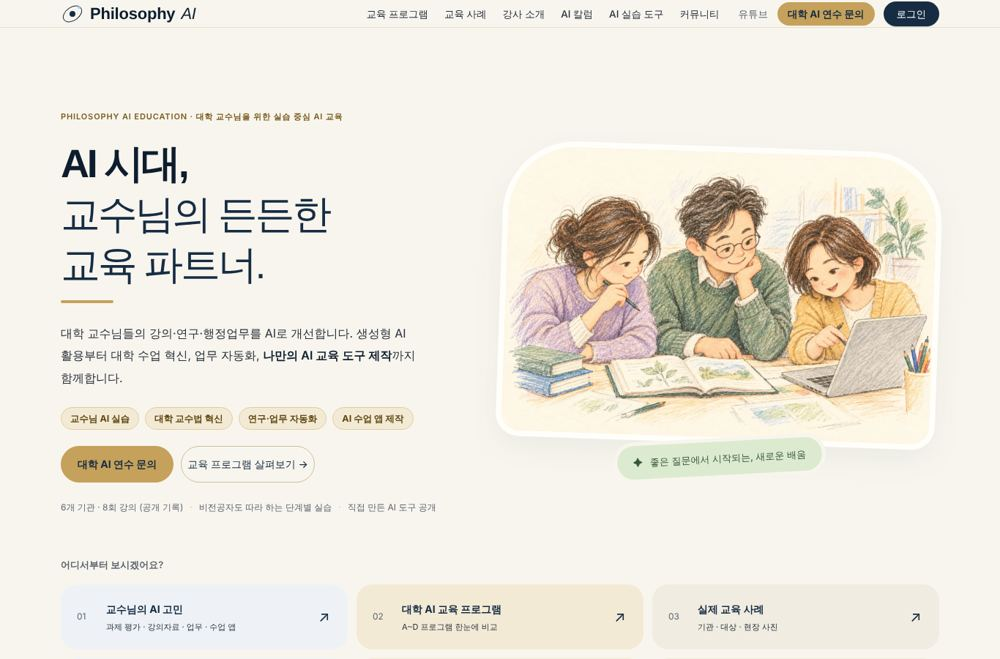
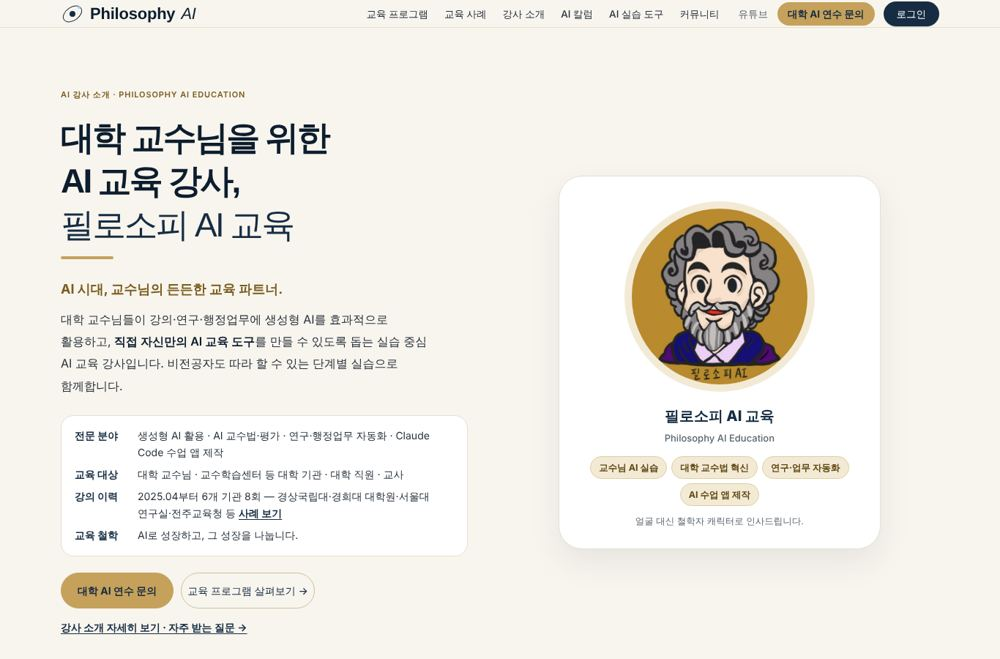
Make the instructor introduction the first screen of the home page
- Hero now introduces the instructor: philosopher character profile card, "대학 교수님을 위한 AI 교육 강사,
  필로소피 AI 교육", the slogan, and a fact list (specialty, audience, recorded teaching history, philosophy)
  with the inquiry/program CTAs and a link to the full instructor page
- The previous hero illustration moves to the philosophy section
- E2E checks the instructor-first hero; screenshots and report updated

Claude-Session: https://claude.ai/code/session_019rubHxhQeUR5oW9HdhLDiC

diff --git a/index.html b/index.html
@@ -519,31 +519,32 @@ footer { background: var(--parchment-deep); border-top: 1px solid var(--parchmen
         <div class="container">
             <div class="hero-layout">
                 <div class="hero-content">
-                    <span class="hero-badge">PHILOSOPHY AI EDUCATION · 대학 교수님을 위한 실습 중심 AI 교육</span>
-                    <h1>AI 시대,<br><em>교수님의 든든한<br> 교육 파트너.</em></h1>
-                    <p class="lead">대학 교수님들의 강의·연구·행정업무를 AI로 개선합니다.
-                        생성형 AI 활용부터 대학 수업 혁신, 업무 자동화, <strong>나만의 AI 교육 도구 제작</strong>까지 함께합니다.</p>
-                    <ul class="hero-keywords" aria-label="핵심 분야">
-                        <li>교수님 AI 실습</li><li>대학 교수법 혁신</li><li>연구·업무 자동화</li><li>AI 수업 앱 제작</li>
-                    </ul>
+                    <span class="hero-badge">AI 강사 소개 · PHILOSOPHY AI EDUCATION</span>
+                    <h1>대학 교수님을 위한<br>AI 교육 강사, <em>필로소피 AI 교육</em></h1>
+                    <p class="hero-slogan">AI 시대, 교수님의 든든한 교육 파트너.</p>
+                    <p class="lead">대학 교수님들이 강의·연구·행정업무에 생성형 AI를 효과적으로 활용하고,
+                        <strong>직접 자신만의 AI 교육 도구</strong>를 만들 수 있도록 돕는 실습 중심 AI 교육 강사입니다.
+                        비전공자도 따라 할 수 있는 단계별 실습으로 함께합니다.</p>
+                    <dl class="hero-profile-facts">
+                        <div><dt>전문 분야</dt><dd>생성형 AI 활용 · AI 교수법·평가 · 연구·행정업무 자동화 · Claude Code 수업 앱 제작</dd></div>
+                        <div><dt>교육 대상</dt><dd>대학 교수님 · 교수학습센터 등 대학 기관 · 대학 직원 · 교사</dd></div>
+                        <div><dt>강의 이력</dt><dd>2025.04부터 6개 기관 8회 — 경상국립대·경희대 대학원·서울대 연구실·전주교육청 등 <a href="/case-studies">사례 보기</a></dd></div>
+                        <div><dt>교육 철학</dt><dd>AI로 성장하고, 그 성장을 나눕니다.</dd></div>
+                    </dl>
                     <div class="hero-buttons">
                         <a href="/education-inquiry" class="btn btn-cta" data-track="cta_inquiry_click" data-track-label="hero">대학 AI 연수 문의</a>
                         <a href="/programs" class="btn btn-ghost" data-track="cta_programs_click" data-track-label="hero">교육 프로그램 살펴보기 →</a>
                     </div>
-                    <div class="hero-meta">
-                        <span>6개 기관 · 8회 강의 (공개 기록)</span>
-                        <span class="dot">·</span>
-                        <span>비전공자도 따라 하는 단계별 실습</span>
-                        <span class="dot">·</span>
-                        <a href="#tools">직접 만든 AI 도구 공개</a>
-                    </div>
+                    <p class="hero-more"><a href="/ai-instructor" data-track="cta_instructor_click" data-track-label="hero">강사 소개 자세히 보기 · 자주 받는 질문 →</a></p>
                 </div>
-                <figure class="hero-figure" id="heroFigure">
-                    <div class="learning-portrait">
-                        <img src="assets/illustrations/learning-together.webp" alt="책과 노트북을 함께 살펴보며 배우는 세 교육자의 색연필 일러스트 (AI로 만든 그림)" width="1536" height="1024" fetchpriority="high">
-                    </div>
-                    <figcaption class="learning-caption"><span aria-hidden="true">✦</span> 좋은 질문에서 시작되는, 새로운 배움</figcaption>
-                </figure>
+                <aside class="hero-figure hero-profile" id="heroFigure" aria-label="강사 프로필">
+                    <img src="assets/mascot.jpg" alt="보라색 재킷을 입은 필로소피 AI 교육의 철학자 캐릭터" width="320" height="320" fetchpriority="high">
+                    <p class="hero-profile-name">필로소피 AI 교육<span>Philosophy AI Education</span></p>
+                    <ul class="hero-profile-tags" aria-label="핵심 분야">
+                        <li>교수님 AI 실습</li><li>대학 교수법 혁신</li><li>연구·업무 자동화</li><li>AI 수업 앱 제작</li>
+                    </ul>
+                    <p class="hero-profile-note">얼굴 대신 철학자 캐릭터로 인사드립니다.</p>
+                </aside>
                 <nav class="explore-nav" aria-label="빠르게 둘러보기">
                     <p class="explore-title">어디서부터 보시겠어요?</p>
                     <a class="explore-link" href="#problems"><span class="explore-number">01</span><span class="explore-name">교수님의 AI 고민<small>과제 평가 · 강의자료 · 업무 · 수업 앱</small></span><span class="explore-arrow">↗</span></a>
@@ -786,9 +787,9 @@ footer { background: var(--parchment-deep); border-top: 1px solid var(--parchmen
     <!-- ===== 교육 철학 · 강사 소개 ===== -->
     <section id="philosophy" class="section-pad philosophy-band" aria-labelledby="philTitle">
         <div class="container philosophy-grid">
-            <figure class="philosophy-figure">
-                <img src="assets/mascot.jpg" alt="보라색 재킷을 입은 필로소피 AI 교육의 철학자 캐릭터" width="220" height="220" loading="lazy">
-                <figcaption>필로소피 AI 교육의 철학자 캐릭터</figcaption>
+            <figure class="philosophy-figure philosophy-illust">
+                <img src="assets/illustrations/learning-together.webp" alt="책과 노트북을 함께 살펴보며 배우는 세 교육자의 색연필 일러스트 (AI로 만든 그림)" width="1536" height="1024" loading="lazy">
+                <figcaption>좋은 질문에서 시작되는, 새로운 배움</figcaption>
             </figure>
             <div>
                 <span class="eyebrow">Our Philosophy</span>
@@ -797,7 +798,7 @@ footer { background: var(--parchment-deep); border-top: 1px solid var(--parchmen
                 <p>필로소피 AI 교육은 <b>“AI 시대, 교육자의 나침반”</b>이 되겠다는 마음으로 시작했습니다. 도구보다 사람을, 정답보다 질문을 먼저 생각하며,
                     기술적으로 가능한 것과 교육적으로 바람직한 것을 함께 고민합니다. 배운 것은 필로소피 AI 봉사단의 스터디와 리퍼 노트북 나눔으로 다시 이어갑니다.</p>
                 <div class="philosophy-links">
-                    <a class="btn btn-ghost" href="/ai-instructor">강사 소개 · 자주 받는 질문</a>
+                    <a class="btn btn-ghost" href="/ai-instructor">강사 소개 자세히 보기</a>
                     <a class="btn btn-ghost" href="/education-inquiry#volunteer">봉사단 활동 보기</a>
                 </div>
             </div>

diff --git a/assets/brand-2026.css b/assets/brand-2026.css
@@ -148,3 +148,34 @@ a.topic-card { color: inherit; text-decoration: none; display: block; transition
 a.topic-card:hover { transform: translateY(-3px); box-shadow: 0 12px 28px rgba(22, 44, 67, .08); }
 .contact-list small a { color: var(--navy); }
 button.hamburger { border: 0; background: transparent; }
+
+/* ===== 첫 화면: 강사 소개 (2026-11-09) ===== */
+.pastel-home .hero h1 { font-size: clamp(30px, 3.4vw, 46px); line-height: 1.3; }
+.pastel-home .hero h1 em::after { margin-top: 12px; }
+.hero-slogan { font-size: 18px; font-weight: 700; color: var(--gold); margin: 14px 0 10px; }
+.hero-profile-facts { display: grid; gap: 8px; margin: 0 0 22px; padding: 16px 18px; background: var(--surface); border: 1px solid var(--line); border-radius: 18px; max-width: 560px; }
+.hero-profile-facts > div { display: grid; grid-template-columns: 76px 1fr; gap: 10px; font-size: 14px; line-height: 1.6; }
+.hero-profile-facts dt { font-weight: 750; color: var(--navy); }
+.hero-profile-facts dd { margin: 0; color: var(--text); }
+.hero-profile-facts a { color: var(--navy); font-weight: 650; text-decoration: underline; text-underline-offset: 3px; }
+.hero-more { margin-top: -10px; font-size: 14px; }
+.hero-more a { color: var(--navy); font-weight: 700; text-decoration: underline; text-underline-offset: 3px; }
+.pastel-home .hero-profile { background: var(--surface); border: 1px solid var(--line); border-radius: 32px; padding: 34px 28px 26px; text-align: center; box-shadow: 0 18px 44px rgba(22, 44, 67, .08); max-width: 440px; justify-self: center; align-self: center; }
+.hero-profile img { width: min(260px, 70%); height: auto; aspect-ratio: 1; object-fit: cover; border-radius: 50%; border: 10px solid #f3ead6; margin: 0 auto 16px; display: block; }
+.hero-profile-name { font-size: 20px; font-weight: 800; color: var(--navy); margin: 0; }
+.hero-profile-name span { display: block; font-size: 13px; font-weight: 500; color: var(--text-soft); margin-top: 2px; }
+.hero-profile-tags { list-style: none; display: flex; flex-wrap: wrap; justify-content: center; gap: 6px; padding: 0; margin: 14px 0 10px; }
+.hero-profile-tags li { font-size: 12.5px; font-weight: 650; padding: 4px 11px; border-radius: 999px; background: #f3ead6; color: #5f4710; border: 1px solid #e1cc9f; }
+.hero-profile-note { font-size: 12.5px; color: var(--text-soft); margin: 0; }
+.philosophy-illust img { width: 100%; height: auto; aspect-ratio: 3 / 2; border-radius: 22px; border: 6px solid #fff; box-shadow: 0 10px 28px rgba(22, 44, 67, .08); }
+.philosophy-band .philosophy-grid { grid-template-columns: minmax(0, 0.9fr) minmax(0, 1.1fr); }
+@media (max-width: 760px) {
+  .pastel-home .hero-profile { padding: 22px 18px 18px; border-radius: 24px; }
+  .hero-profile img { width: 150px; }
+  .hero-profile-facts > div { grid-template-columns: 1fr; gap: 0; }
+  .pastel-home .hero h1 { font-size: clamp(26px, 7.4vw, 34px); }
+  .philosophy-band .philosophy-grid { grid-template-columns: 1fr; }
+}
+.pastel-home .hero { padding-top: 120px; }
+.pastel-home .hero h1 em { display: block; }
+@media (max-width: 760px) { .pastel-home .hero { padding-top: 104px; } }

diff --git a/docs/REDESIGN-2026-11-REPORT.md b/docs/REDESIGN-2026-11-REPORT.md
@@ -38,7 +38,8 @@
 **메시지·콘텐츠**
 - 슬로건 “AI 시대, 교수님의 든든한 교육 파트너.” / 철학 “AI로 성장하고, 그 성장을 나눕니다.” — 기존 “AI 시대, 교육자의 나침반”은 메인 ‘교육 철학’과 강사 소개에서 이야기로 유지
 - 소개 한 줄과 유튜브용 소개문(요청 문장)을 `src/site/data.mjs`에 두고, 강사 소개·`llms.txt`에만 사용(모든 페이지 반복 X)
-- 메인 구성: 히어로 → **방문자별 빠른 길**(교수님 / 기관 담당자) → **교수님의 AI 고민 4개**(실제 존재하는 프로그램·칼럼에만 링크) → 해결 방식 4단계 + **프로그램 A~D** → 실제 교육 이력 → AI 실습 도구·쇼케이스(기존 그대로, 대학 강의 활용 설명 추가) → **칼럼·유튜브** → **교육 철학·강사 소개**(철학자 캐릭터) → 커뮤니티 → 문의
+- **첫 화면 = 강사 소개 (2026-11-09 추가 요청)**: 철학자 캐릭터 프로필 카드, “대학 교수님을 위한 AI 교육 강사, 필로소피 AI 교육”, 슬로건, 전문 분야·교육 대상·강의 이력(6개 기관 8회)·교육 철학 요약, 연수 문의·프로그램 버튼과 강사 소개 상세 링크. 원래 히어로 일러스트는 교육 철학 섹션으로 이동
+- 메인 구성: 히어로(강사 소개) → **방문자별 빠른 길**(교수님 / 기관 담당자) → **교수님의 AI 고민 4개**(실제 존재하는 프로그램·칼럼에만 링크) → 해결 방식 4단계 + **프로그램 A~D** → 실제 교육 이력 → AI 실습 도구·쇼케이스(기존 그대로, 대학 강의 활용 설명 추가) → **칼럼·유튜브** → **교육 철학·강사 소개**(철학자 캐릭터) → 커뮤니티 → 문의
 - 프로그램 A~D(요청 구성 그대로): 교육 목적·추천 대상·해결 문제·주요 내용·실습 결과물·**준비사항**·**운영 방식(협의 가능 예시)**·관련 사례·후기·문의 버튼, 상단 비교표
   - 진행 상태를 정직하게 표시: A·C “같은 주제 진행 이력 있음(다른 대상)”, D “일부 주제 진행 이력·교수님용 새 구성”, B “신규 제안 프로그램”
   - 교육 시간·가격은 쓰지 않았고 “정해진 표준 시간표·가격표 없음”으로 명시
